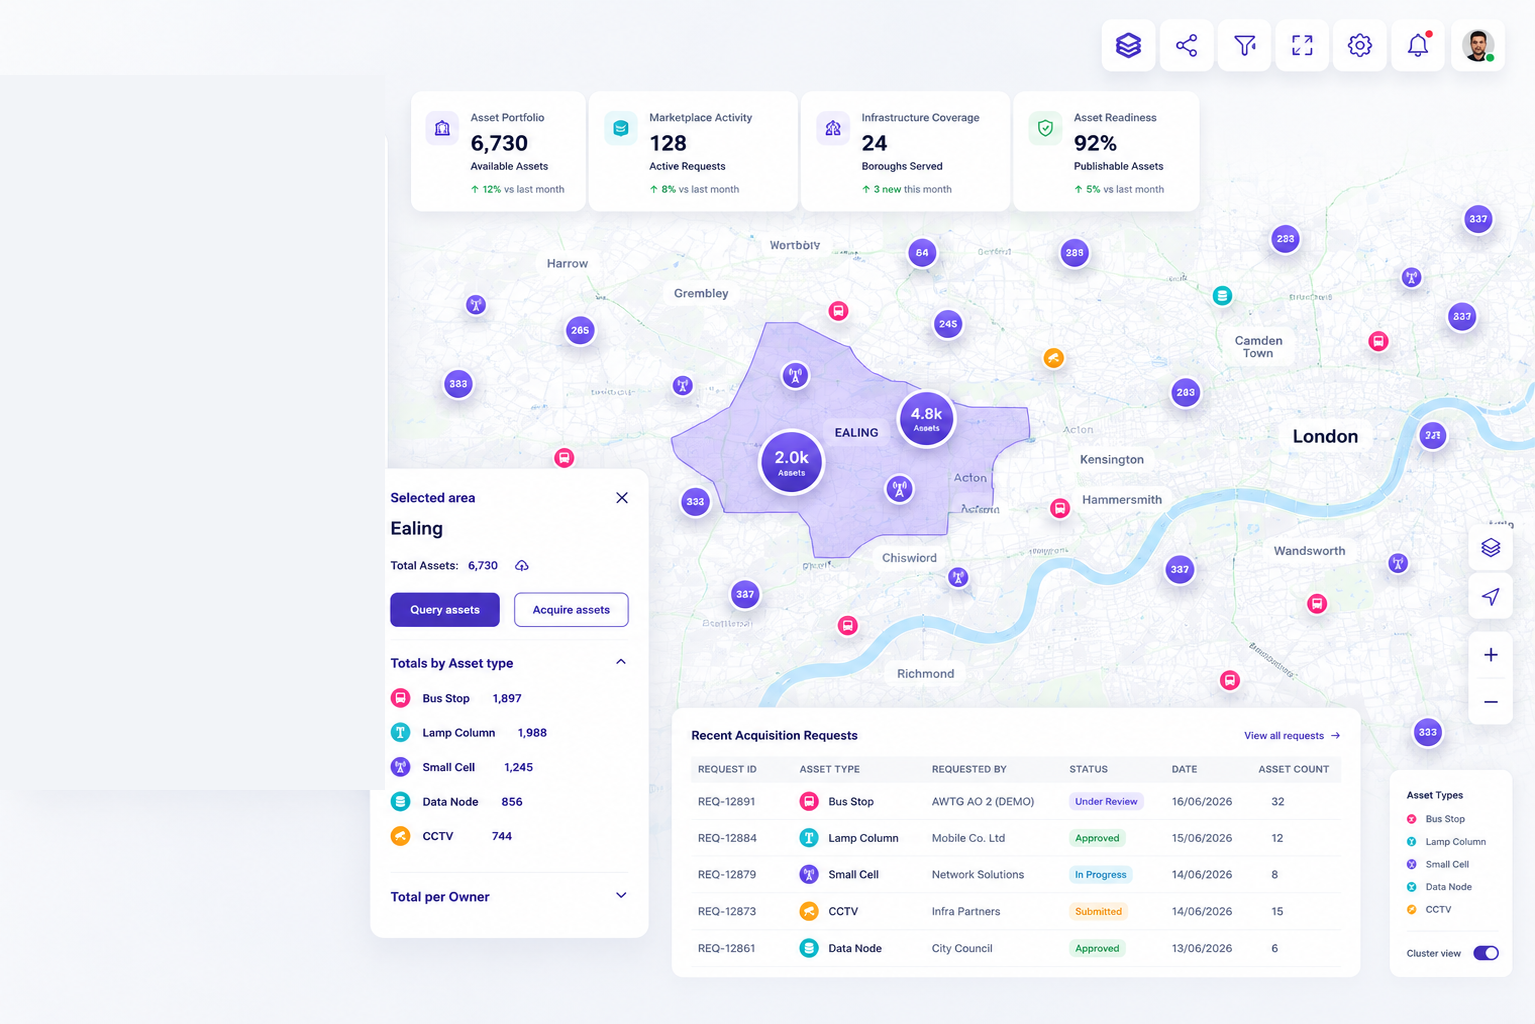
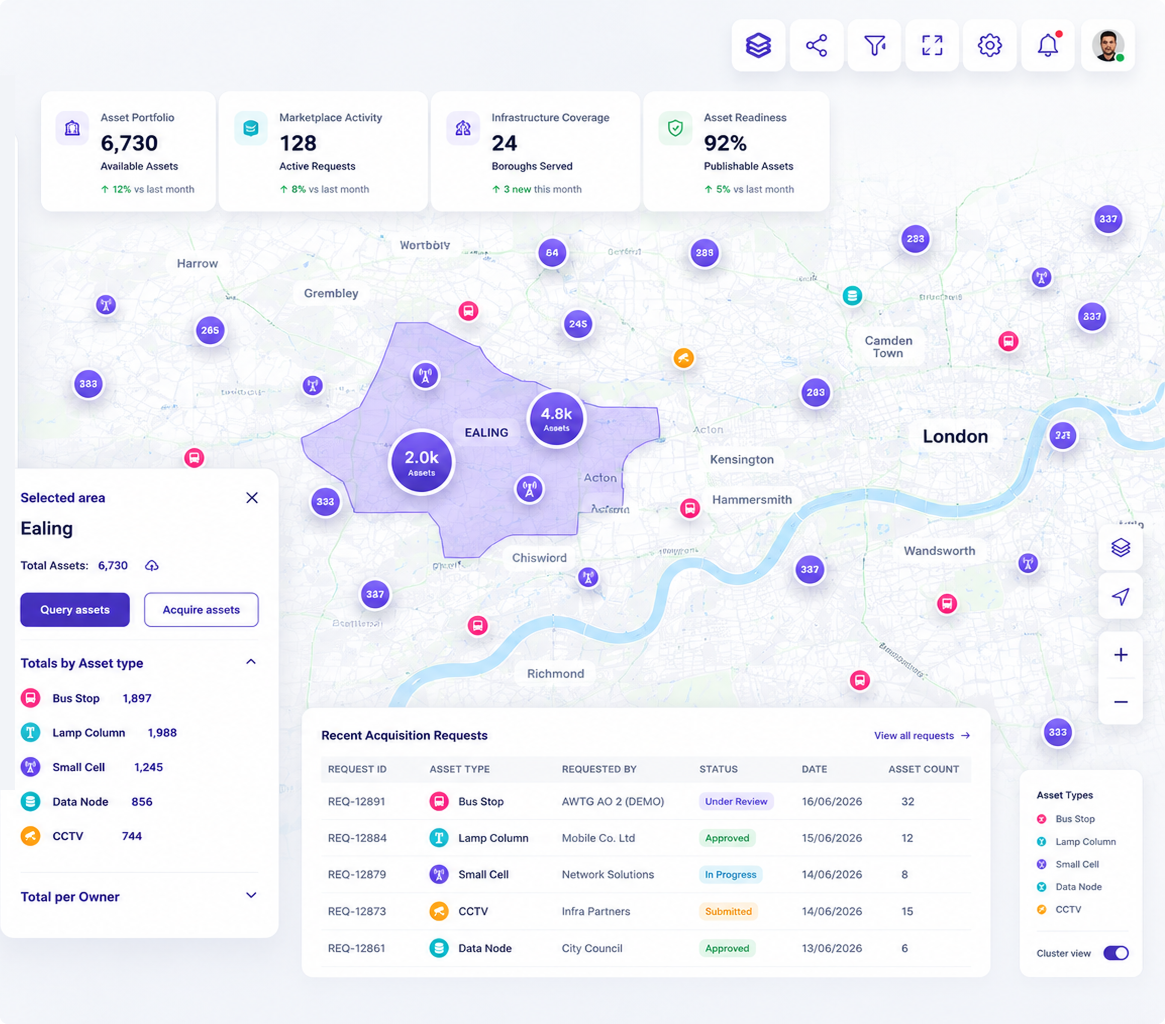
Size iDAMS image boxes to each screenshot's aspect ratio and drop the white padding
The fixed-height boxes were much wider than the (near-square) audience
screenshots, leaving large white margins around the image. Sizing each box
via CSS aspect-ratio to match its screenshot's native dimensions, and
switching to object-cover with no inner padding, makes every screenshot
fill its frame edge-to-edge. Also swapped in refreshed asset-owners and
network-operators screenshots.

diff --git a/src/pages/ServicesIoTPage.tsx b/src/pages/ServicesIoTPage.tsx
@@ -228,12 +228,12 @@ function SectionHeader({ title, desc }: { title: ReactNode; desc: string }) {
 
 // ── Data ──────────────────────────────────────────────────────────────────────
 const capabilities = [
-  { image: idamsCapability1, title: 'Interactive Asset Map', desc: 'View available assets on an intuitive map interface. Assets can be displayed as layers and filtered by location, type, ownership, availability, and other configurable criteria.' },
-  { image: idamsCapability2, title: 'Advanced Search & Filtering', desc: 'Find the right assets using geographic search, postcode, asset type, metadata, or selected map areas such as radius or polygon search.' },
-  { image: idamsCapability3, title: 'Asset Data Management', desc: 'Import, create, update, and manage asset records in one place. iDAMS supports flexible data mapping and can be configured to fit different asset structures and ownership models.' },
-  { image: idamsCapability4, title: 'Acquisition Workflow', desc: 'Manage asset requests through a structured workflow with reviews, approvals, stakeholder input, and notifications - keeping every request visible and accountable.' },
-  { image: idamsCapability5, title: 'Reporting & Insights', desc: 'Use dashboards, reports, and exports to understand asset usage, acquisition progress, and operational performance across your estate.' },
-  { image: idamsCapability6, title: 'Integration-Ready Platform', desc: 'iDAMS provides APIs for importing and exporting data and can be configured during onboarding to support each customer\'s specific operational requirements.' },
+  { image: idamsCapability1, aspect: '1535 / 1024', title: 'Interactive Asset Map', desc: 'View available assets on an intuitive map interface. Assets can be displayed as layers and filtered by location, type, ownership, availability, and other configurable criteria.' },
+  { image: idamsCapability2, aspect: '1024 / 1535', title: 'Advanced Search & Filtering', desc: 'Find the right assets using geographic search, postcode, asset type, metadata, or selected map areas such as radius or polygon search.' },
+  { image: idamsCapability3, aspect: '1024 / 1535', title: 'Asset Data Management', desc: 'Import, create, update, and manage asset records in one place. iDAMS supports flexible data mapping and can be configured to fit different asset structures and ownership models.' },
+  { image: idamsCapability4, aspect: '1535 / 1024', title: 'Acquisition Workflow', desc: 'Manage asset requests through a structured workflow with reviews, approvals, stakeholder input, and notifications - keeping every request visible and accountable.' },
+  { image: idamsCapability5, aspect: '1535 / 1024', title: 'Reporting & Insights', desc: 'Use dashboards, reports, and exports to understand asset usage, acquisition progress, and operational performance across your estate.' },
+  { image: idamsCapability6, aspect: '1535 / 1024', title: 'Integration-Ready Platform', desc: 'iDAMS provides APIs for importing and exporting data and can be configured during onboarding to support each customer\'s specific operational requirements.' },
 ]
 
 const ownerBenefits = [
@@ -261,6 +261,7 @@ const audiences = [
     desc: 'iDAMS helps asset owners make their infrastructure visible and available for commercial or public-service use. Import asset data, manage records, define availability, review requests, and track the full acquisition process from enquiry to approval.',
     benefits: ownerBenefits,
     image: idamsAssetOwnersVisual,
+    aspect: '1165 / 1024',
   },
   {
     color: '#3d4d9e',
@@ -268,6 +269,7 @@ const audiences = [
     desc: 'iDAMS helps operators identify suitable locations for network deployment more quickly. Search assets geographically, filter by metadata, select individual or multiple assets, and submit requests through a structured process.',
     benefits: operatorBenefits,
     image: idamsNetworkOperatorsVisual,
+    aspect: '1111 / 1024',
   },
 ]
 
@@ -408,8 +410,11 @@ export default function ServicesIoTPage() {
                     </div>
                   </div>
                   <div className={imageFirst ? 'lg:order-1' : 'lg:order-2'} style={reveal(audInView, i * 150)}>
-                    <div className="flex h-[400px] items-center justify-center overflow-hidden rounded-2xl border border-gray-200 bg-white p-8 shadow-[0_8px_48px_rgba(10,22,40,0.1)] lg:h-[440px]">
-                      <img src={aud.image} alt={aud.title} className="max-h-full max-w-full object-contain" loading="lazy" />
+                    <div
+                      className="mx-auto flex h-[340px] items-center justify-center overflow-hidden rounded-2xl border border-gray-200 bg-white shadow-[0_8px_48px_rgba(10,22,40,0.1)] lg:h-[420px]"
+                      style={{ aspectRatio: aud.aspect, maxWidth: '100%' }}
+                    >
+                      <img src={aud.image} alt={aud.title} className="h-full w-full object-cover" loading="lazy" />
                     </div>
                   </div>
                 </div>
@@ -441,11 +446,14 @@ export default function ServicesIoTPage() {
                   <p className="border-t border-[#0a1628]/10 pt-6 text-[16px] font-normal leading-[1.75] text-[#0a1628]/65">{cap.desc}</p>
                 </div>
 
-                <div className={`flex h-[400px] items-center justify-center overflow-hidden rounded-2xl border border-gray-200 bg-white p-8 shadow-[0_8px_48px_rgba(10,22,40,0.1)] lg:h-[440px] ${i % 2 === 0 ? 'lg:order-2' : 'lg:order-1'}`}>
+                <div
+                  className={`mx-auto flex h-[340px] items-center justify-center overflow-hidden rounded-2xl border border-gray-200 bg-white shadow-[0_8px_48px_rgba(10,22,40,0.1)] lg:h-[420px] ${i % 2 === 0 ? 'lg:order-2' : 'lg:order-1'}`}
+                  style={{ aspectRatio: cap.aspect, maxWidth: '100%' }}
+                >
                   <img
                     src={cap.image}
                     alt={`${cap.title} interface`}
-                    className="max-h-full max-w-full object-contain"
+                    className="h-full w-full object-cover"
                     loading="lazy"
                   />
                 </div>
